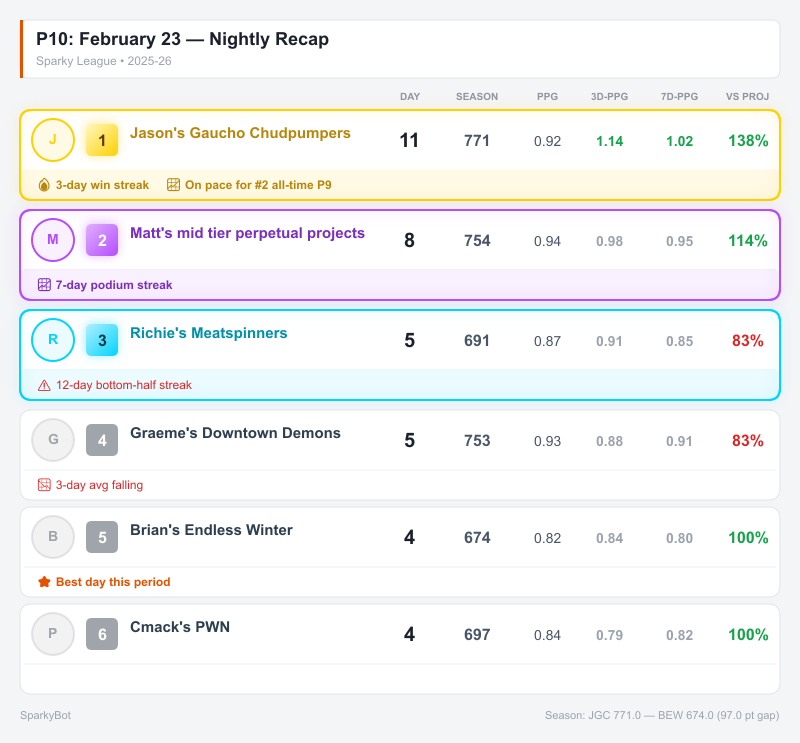
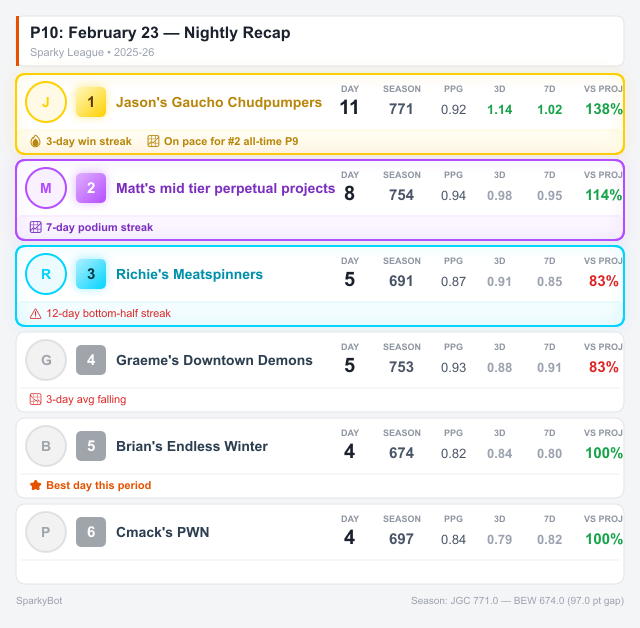
adding

diff --git a/src/scoreboard.js b/src/scoreboard.js
@@ -88,14 +88,14 @@ const BADGE_SIZE = 30;
 const ELEM_GAP = 10;
 const GLOW_PAD = 14; // extra padding for glow to not get clipped
 
-// Column positions (right-aligned)
+// Column positions (right-aligned, with breathing room on right edge)
 const COLS = {
-  day:    { x: CARD_W - CARD_PAD - 280, labelW: 44 },
-  season: { x: CARD_W - CARD_PAD - 228, labelW: 44 },
-  ppg:    { x: CARD_W - CARD_PAD - 176, labelW: 38 },
-  avg3:   { x: CARD_W - CARD_PAD - 130, labelW: 42 },
-  avg7:   { x: CARD_W - CARD_PAD - 80,  labelW: 42 },
-  vsProj: { x: CARD_W - CARD_PAD - 26,  labelW: 48 },
+  day:    { x: CARD_W - CARD_PAD - 296 },
+  season: { x: CARD_W - CARD_PAD - 244 },
+  ppg:    { x: CARD_W - CARD_PAD - 192 },
+  avg3:   { x: CARD_W - CARD_PAD - 144 },
+  avg7:   { x: CARD_W - CARD_PAD - 96 },
+  vsProj: { x: CARD_W - CARD_PAD - 40 },
 };
 
 function getTrendColor(avg, seasonPpg) {
@@ -323,14 +323,25 @@ function renderCardStrip(ctx, team, logos, x, y, w) {
   ctx.textAlign = "left";
   const streaks = team.streaks || [];
   let narX = x + 12;
-  for (const s of streaks) {
-    const isHot = s.includes("🔥") || s.includes("📈") || s.includes("⭐");
-    const isCold = s.includes("📉") || s.includes("⚠");
-    ctx.fillStyle = isHot ? (isPodium ? p.nameColor : T.narrativeHighlight) :
-                    isCold ? T.negative : T.narrativeText;
-    ctx.font = `${isHot ? "600" : "400"} 11px 'Helvetica Neue', Helvetica, Arial, sans-serif`;
-    ctx.fillText(s, narX, narY + 15);
-    narX += ctx.measureText(s).width + 14;
+
+  if (streaks.length === 0) {
+    // Fallback: show projection
+    const projText = team.projection
+      ? `Proj finish: ${team.projection.projected} pts`
+      : `Season avg: ${(team.ppg || 0).toFixed(2)} PPG`;
+    ctx.fillStyle = T.narrativeText;
+    ctx.font = "italic 11px 'Helvetica Neue', Helvetica, Arial, sans-serif";
+    ctx.fillText(projText, narX, narY + 15);
+  } else {
+    for (const s of streaks) {
+      const isHot = s.includes("🔥") || s.includes("📈") || s.includes("⭐");
+      const isCold = s.includes("📉") || s.includes("⚠");
+      ctx.fillStyle = isHot ? (isPodium ? p.nameColor : T.narrativeHighlight) :
+                      isCold ? T.negative : T.narrativeText;
+      ctx.font = `${isHot ? "600" : "400"} 11px 'Helvetica Neue', Helvetica, Arial, sans-serif`;
+      ctx.fillText(s, narX, narY + 15);
+      narX += ctx.measureText(s).width + 14;
+    }
   }
 
   return cardH;

diff --git a/src/test-scoreboard.js b/src/test-scoreboard.js
@@ -17,40 +17,41 @@ const mockAnalysis = {
 
   teams: [
     {
-      franchise: "JGC", name: "Jason's Gaucho Chudpumpers",
+      franchise: "JGC", name: "Gaucho Chudpumpers",
       dayPts: 11, projPts: 8, seasonPts: 771, ppg: 0.92, avg3d: 1.14, avg7d: 1.02,
       dayRank: 1, seasonRank: 1,
       streaks: ["🔥 3-day win streak", "📈 On pace for #2 all-time P9"],
     },
     {
-      franchise: "MPP", name: "Matt's mid tier perpetual projects",
+      franchise: "MPP", name: "mid tier perpetual projects",
       dayPts: 8, projPts: 7, seasonPts: 754, ppg: 0.94, avg3d: 0.98, avg7d: 0.95,
       dayRank: 2, seasonRank: 2,
       streaks: ["📈 7-day podium streak"],
     },
     {
-      franchise: "RMS", name: "Richie's Meatspinners",
+      franchise: "RMS", name: "Meatspinners",
       dayPts: 5, projPts: 6, seasonPts: 691, ppg: 0.87, avg3d: 0.91, avg7d: 0.85,
       dayRank: 3, seasonRank: 5,
       streaks: ["⚠ 12-day bottom-half streak"],
     },
     {
-      franchise: "GDD", name: "Graeme's Downtown Demons",
+      franchise: "GDD", name: "Downtown Demons",
       dayPts: 5, projPts: 6, seasonPts: 753, ppg: 0.93, avg3d: 0.88, avg7d: 0.91,
       dayRank: 4, seasonRank: 3,
       streaks: ["📉 3-day avg falling"],
     },
     {
-      franchise: "BEW", name: "Brian's Endless Winter",
+      franchise: "BEW", name: "Endless Winter",
       dayPts: 4, projPts: 4, seasonPts: 674, ppg: 0.82, avg3d: 0.84, avg7d: 0.80,
       dayRank: 5, seasonRank: 6,
       streaks: ["⭐ Best day this period"],
     },
     {
-      franchise: "PWN", name: "Cmack's PWN",
+      franchise: "PWN", name: "PWN",
       dayPts: 4, projPts: 4, seasonPts: 697, ppg: 0.84, avg3d: 0.79, avg7d: 0.82,
       dayRank: 6, seasonRank: 4,
       streaks: [],
+      projection: { projected: 758 },
     },
   ],
 

diff --git a/src/config.js b/src/config.js
@@ -39,12 +39,12 @@ const FRANCHISE_MAP = {
 };
 
 const FRANCHISE_NAMES = {
-  JGC: "Jason's Gaucho Chudpumpers",
-  PWN: "Cmack's PWN",
-  BEW: "Brian's Endless Winter",
-  MPP: "Matt's mid tier perpetual projects",
-  RMS: "Richie's Meatspinners",
-  GDD: "Graeme's Downtown Demons",
+  JGC: "Gaucho Chudpumpers",
+  PWN: "PWN",
+  BEW: "Endless Winter",
+  MPP: "mid tier perpetual projects",
+  RMS: "Meatspinners",
+  GDD: "Downtown Demons",
 };
 
 /**
